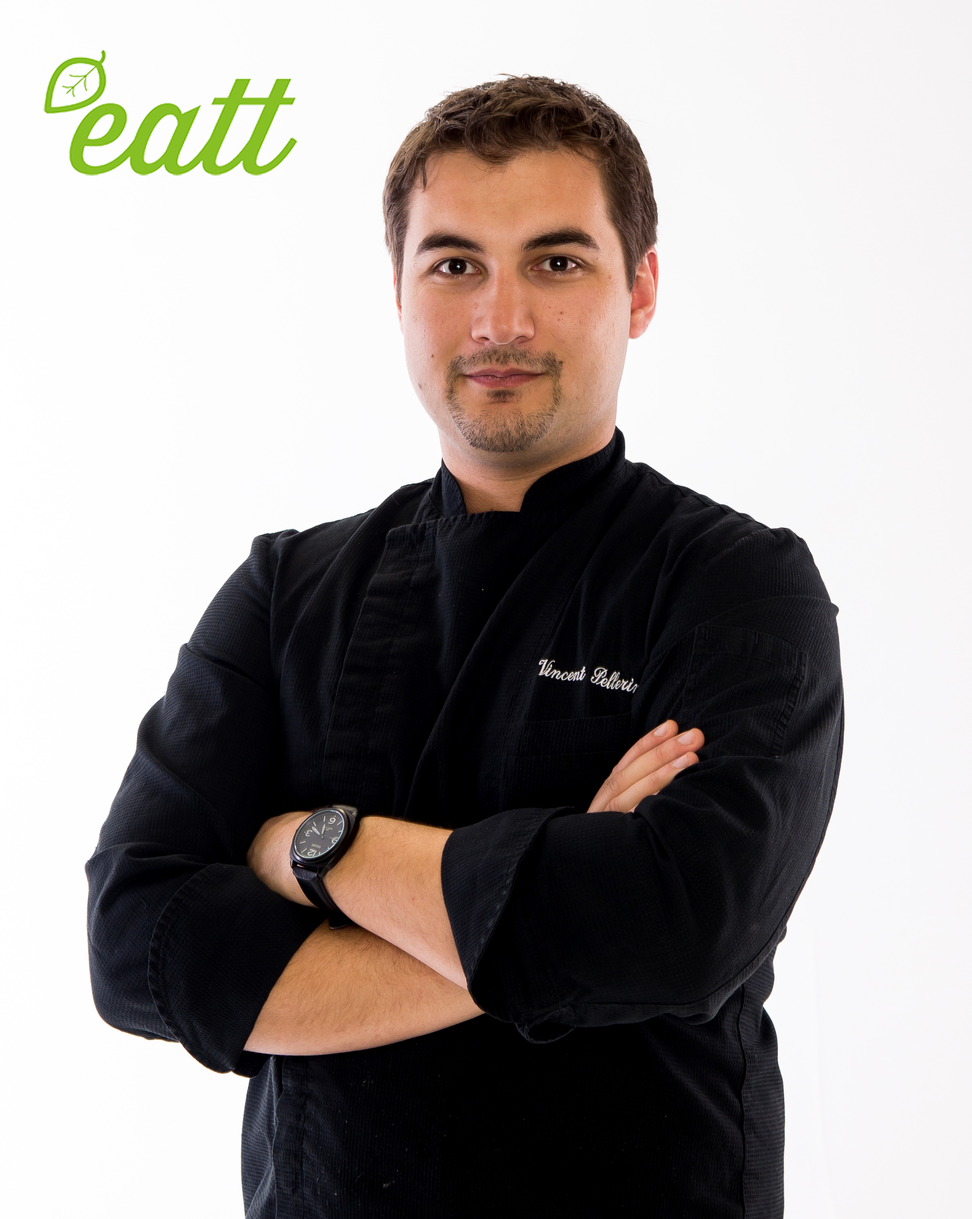
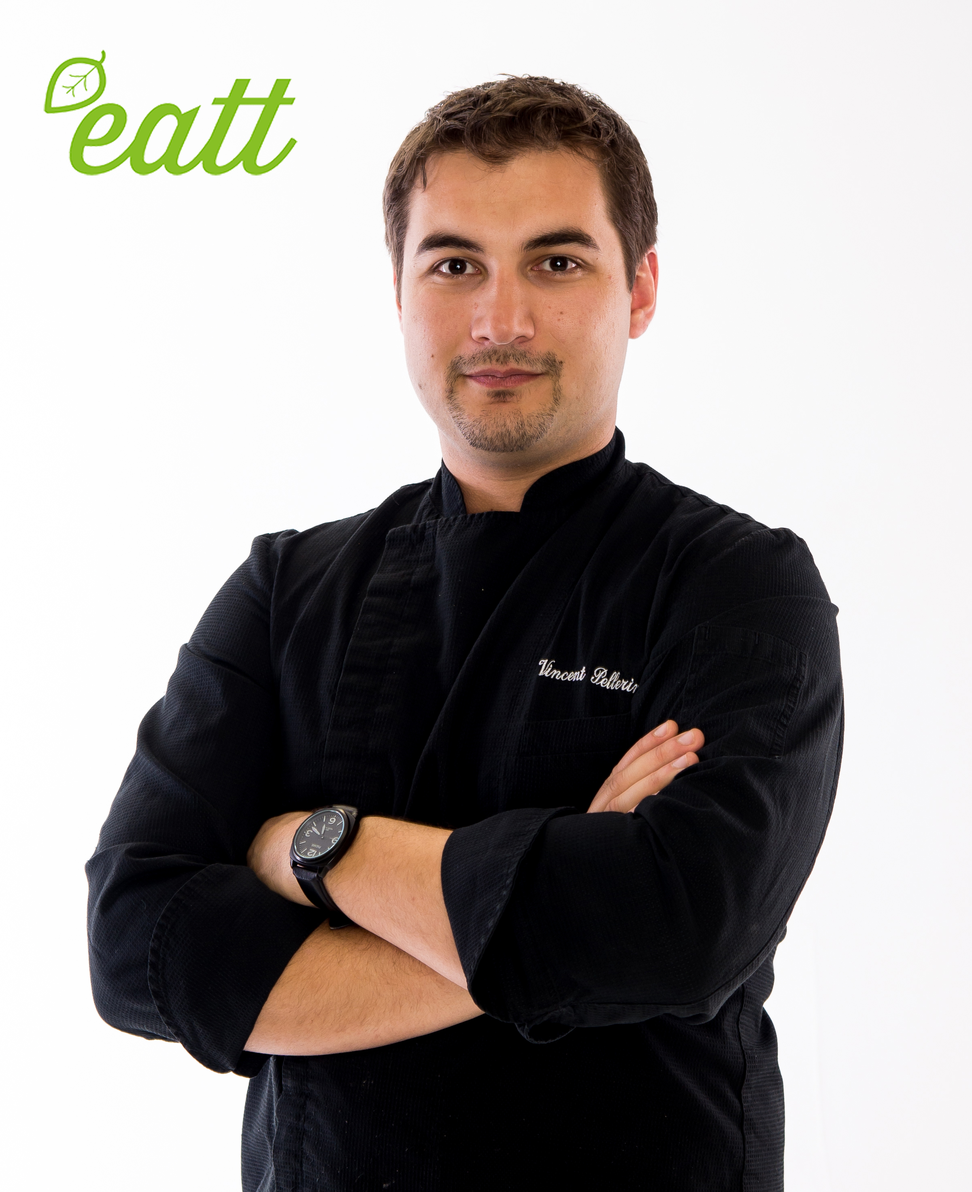
resized chef pictures for various devices

diff --git a/index.html b/index.html
@@ -426,7 +426,7 @@
    <section class="section culi-animation chef-section" data-portfolio-effect="fadeInDown" data-animation-delay="0" data-animation-offset="75%" style="padding-top: 0;">
          <div class="container">
             <div class="row">
-               <div class="col-md-4 col-sm-8">
+               <div class="col-md-4 col-sm-4 col-xs-12">
                   <div class="chefs-detail">
                      <div class="chefs-top">
                         <div class="chefs-content">
@@ -449,7 +449,7 @@
                      </div>
                   </div>
                </div>
-               <div class="col-md-4 col-sm-8">
+               <div class="col-md-4 col-sm-4 col-xs-12">
                   <div class="chefs-detail">
                      <div class="chefs-top">                        
                         <div class="chefs-img">
@@ -473,7 +473,7 @@
                      </div>
                   </div>
                </div>               
-               <div class="col-md-4 col-sm-8">
+               <div class="col-md-4 col-sm-4 col-xs-12">
                   <div class="chefs-detail">
                      <div class="chefs-top">
                         <div class="chefs-content">

diff --git a/stylesheets/shortcodes.css b/stylesheets/shortcodes.css
@@ -503,7 +503,6 @@ section {
 
 .chefs-detail .chefs-img img {
     width: 100%;
-    height: 450px;
     -webkit-transition: all .3s;
     -moz-transition: all .3s;
     -ms-transition: all .3s;
@@ -897,14 +896,4 @@ section {
   100% {
     font-size: 35px;
   }
-}
-
-/* Media Queries
--------------------------------------------------------------- */
-
-@media only screen and (max-width: 767px) {
- .chefs-detail .chefs-img img {
-    width: 100%;
-    height: 100%;
- }  
 }
